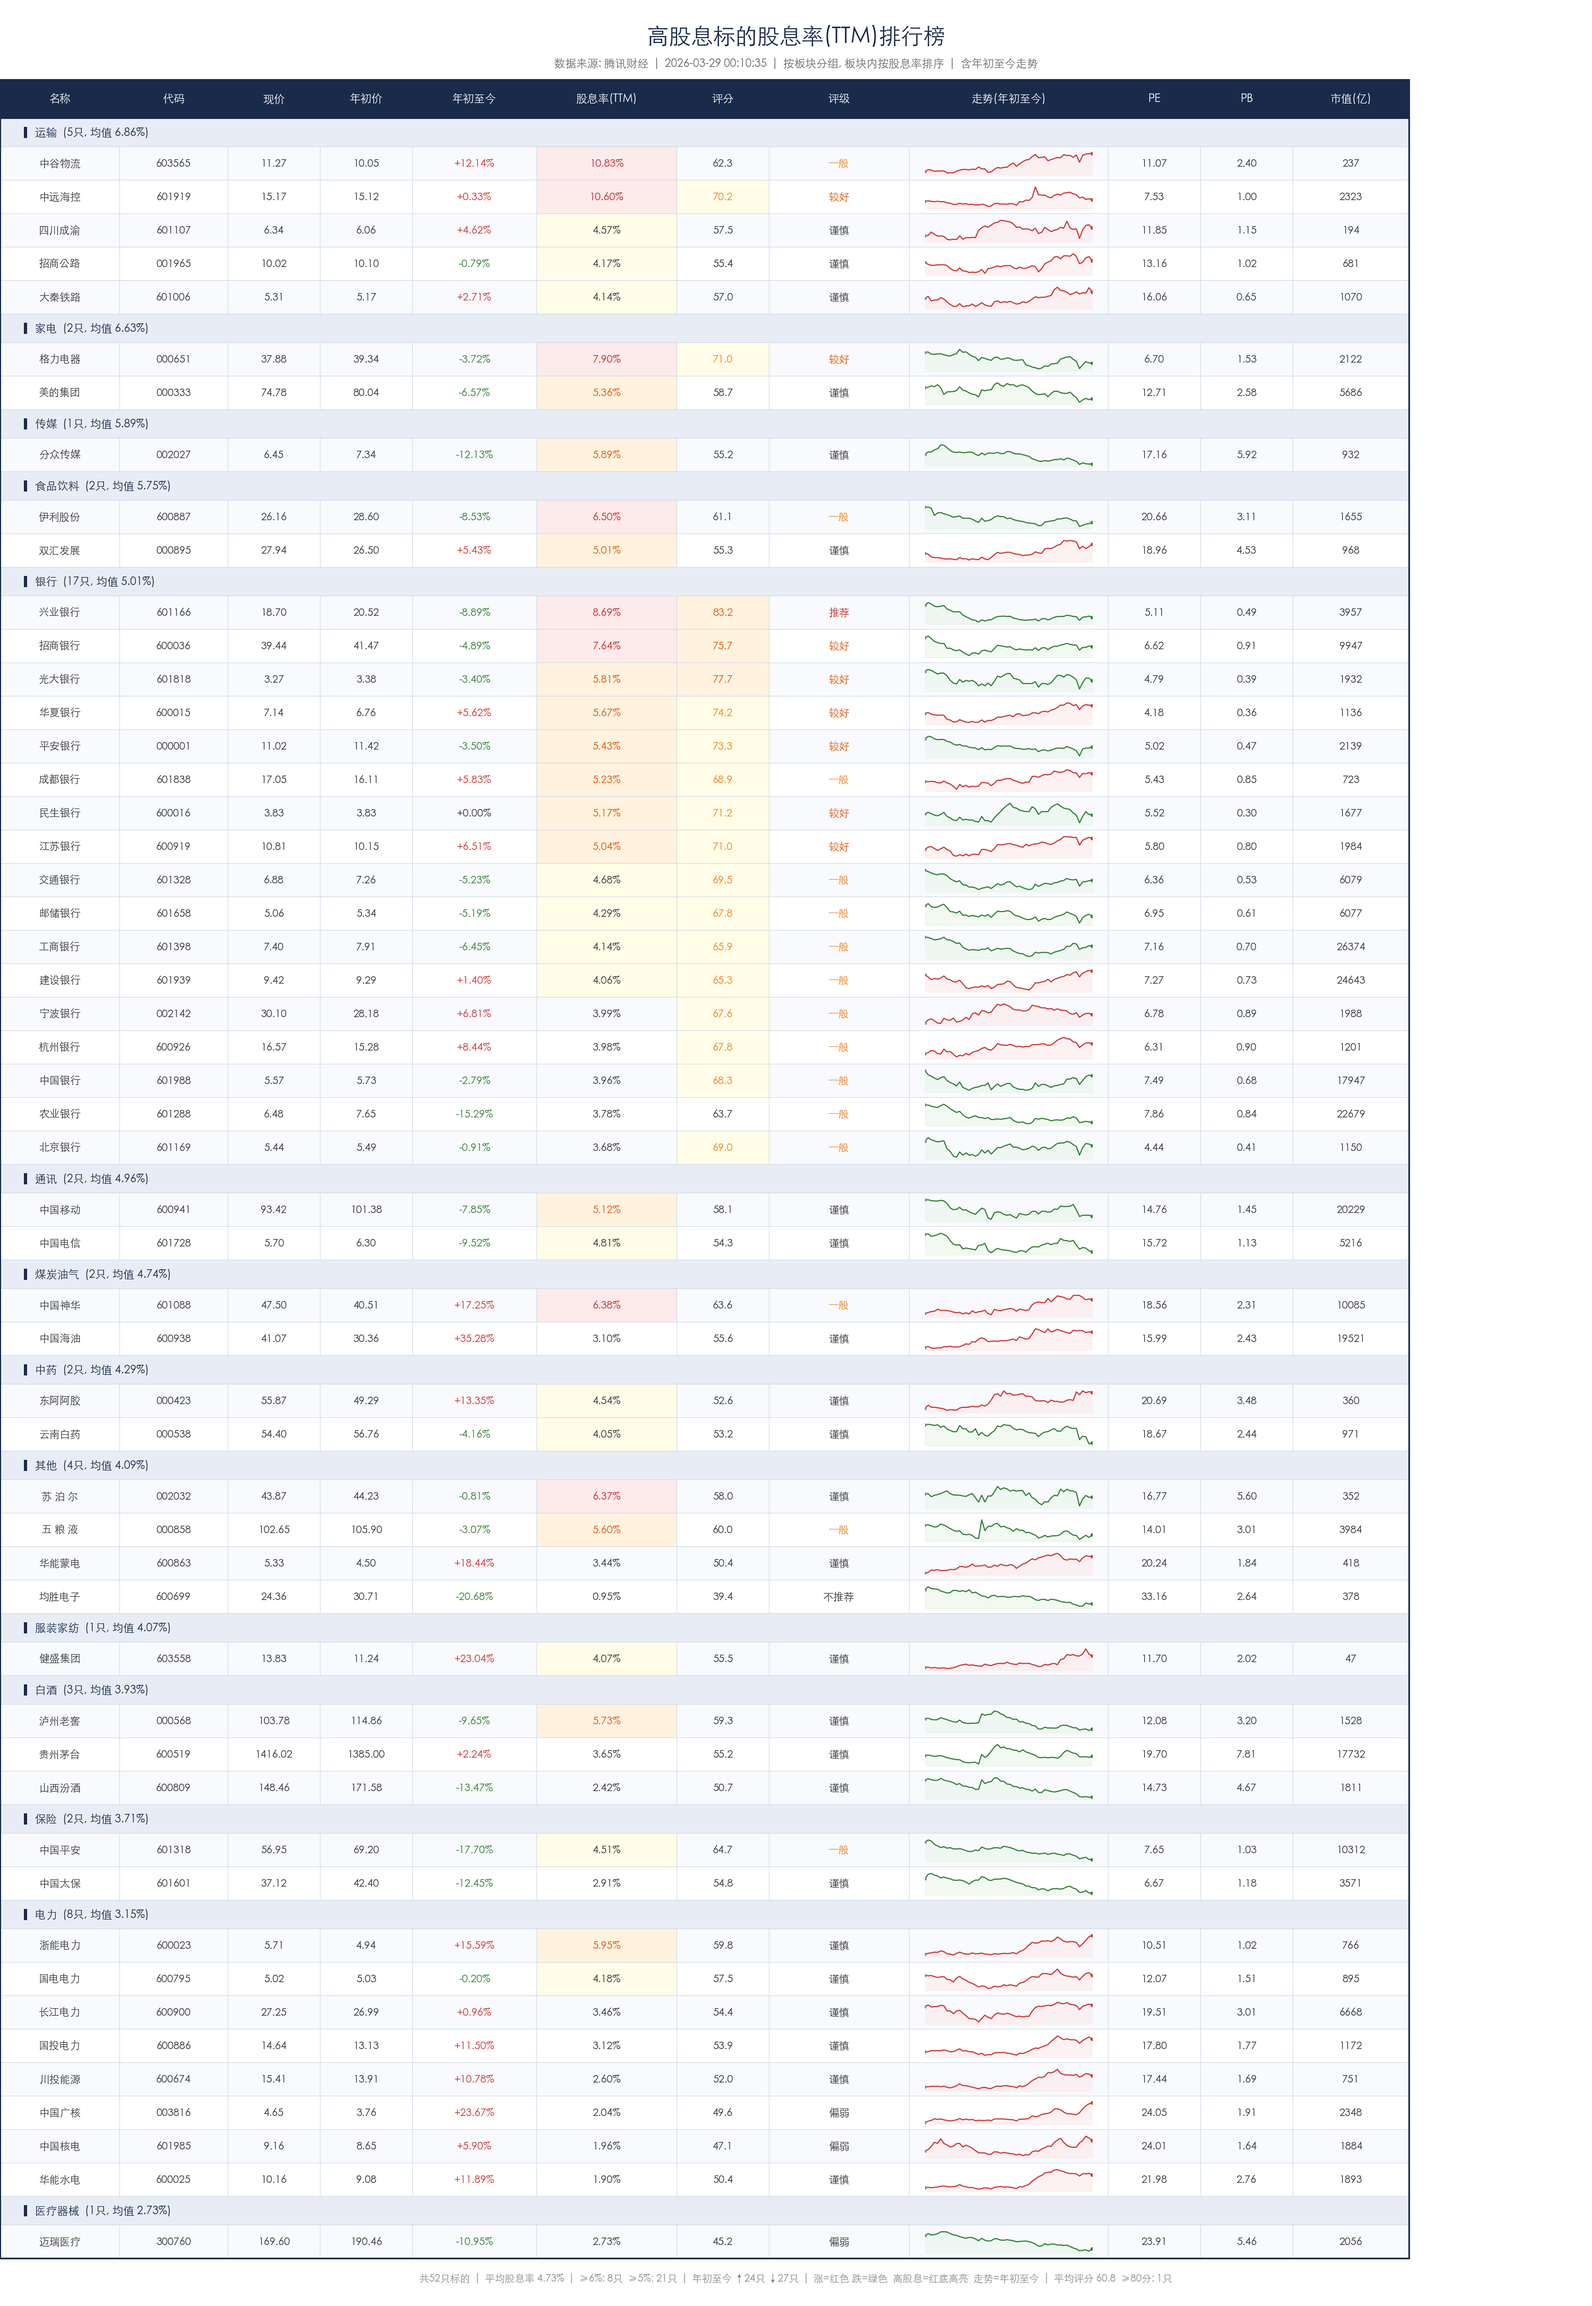
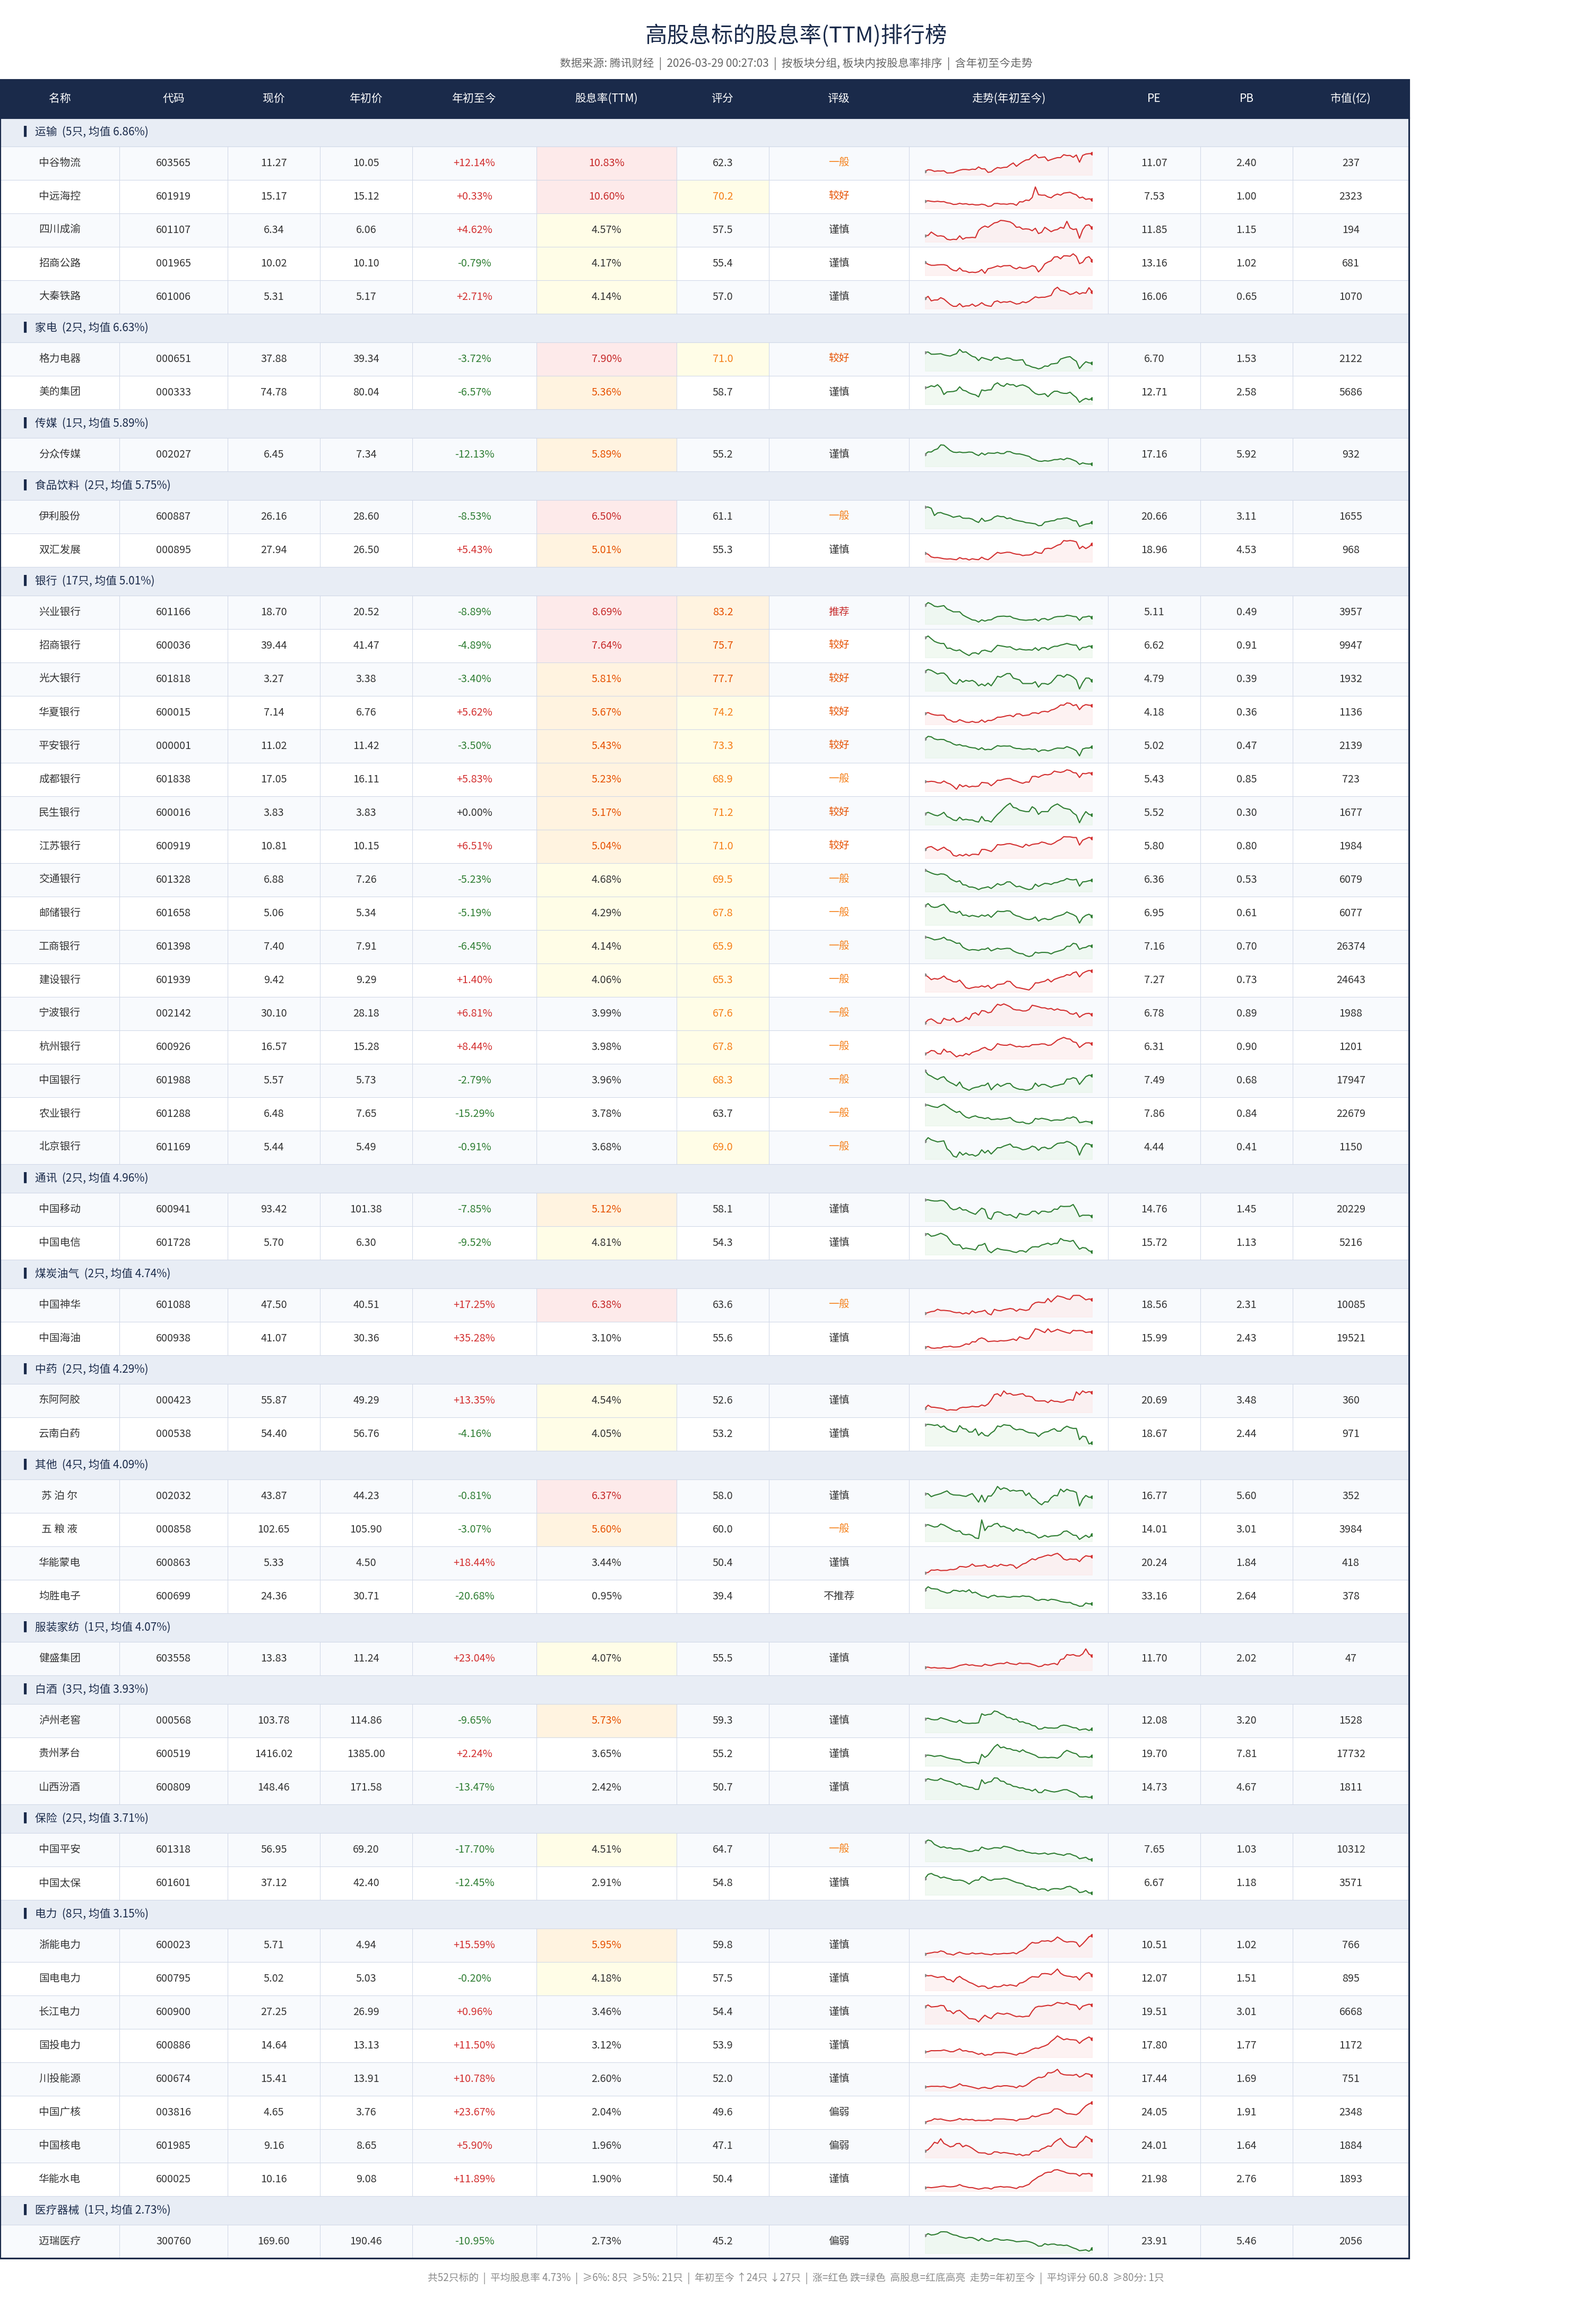
feat: 添加Linux中文字体支持，解决图表中文显示问题
- 新增setup_chinese_font()函数，自动检测并加载Linux系统字体
- 更新_find_cjk_font()函数，支持Linux和macOS双平台
- 优先尝试Noto Sans CJK SC和文泉驿微米黑字体
- 添加字体加载失败时的友好提示

diff --git a/send_wechat.py b/send_wechat.py
@@ -1,0 +1,194 @@
+#!/usr/bin/env python3
+# -*- coding: utf-8 -*-
+"""
+企业微信机器人消息发送工具
+用于发送股息分析结果和图片
+"""
+
+import requests
+import json
+import os
+import base64
+import hashlib
+from datetime import datetime
+
+# 企业微信机器人Webhook地址
+WEBHOOK_URL = "https://qyapi.weixin.qq.com/cgi-bin/webhook/send?key=a986619b-3ca0-4282-a354-ad181a22bb57"
+
+
+def send_text_message(content):
+    """发送文本消息"""
+    data = {
+        "msgtype": "text",
+        "text": {
+            "content": content
+        }
+    }
+    response = requests.post(WEBHOOK_URL, json=data, timeout=30)
+    return response.json()
+
+
+def send_markdown_message(content):
+    """发送Markdown消息"""
+    data = {
+        "msgtype": "markdown",
+        "markdown": {
+            "content": content
+        }
+    }
+    response = requests.post(WEBHOOK_URL, json=data, timeout=30)
+    return response.json()
+
+
+def send_image_message(image_path):
+    """发送图片消息"""
+    with open(image_path, 'rb') as f:
+        image_data = f.read()
+    
+    # 计算图片的base64编码和md5值
+    base64_data = base64.b64encode(image_data).decode('utf-8')
+    md5_value = hashlib.md5(image_data).hexdigest()
+    
+    data = {
+        "msgtype": "image",
+        "image": {
+            "base64": base64_data,
+            "md5": md5_value
+        }
+    }
+    response = requests.post(WEBHOOK_URL, json=data, timeout=30)
+    return response.json()
+
+
+def send_news_message(title, description, url, picurl=""):
+    """发送图文消息"""
+    data = {
+        "msgtype": "news",
+        "news": {
+            "articles": [
+                {
+                    "title": title,
+                    "description": description,
+                    "url": url,
+                    "picurl": picurl
+                }
+            ]
+        }
+    }
+    response = requests.post(WEBHOOK_URL, json=data, timeout=30)
+    return response.json()
+
+
+def generate_summary_from_csv(csv_path):
+    """从CSV文件生成汇总信息"""
+    if not os.path.exists(csv_path):
+        return "未找到数据文件"
+    
+    try:
+        import csv
+        rows = []
+        with open(csv_path, 'r', encoding='utf-8-sig') as f:
+            reader = csv.DictReader(f)
+            for row in reader:
+                rows.append(row)
+        
+        if not rows:
+            return "数据为空"
+        
+        # 计算统计数据
+        total = len(rows)
+        dividend_rates = [float(r['股息率%(TTM)']) for r in rows if r.get('股息率%(TTM)')]
+        avg_dv = sum(dividend_rates) / len(dividend_rates) if dividend_rates else 0
+        max_dv = max(dividend_rates) if dividend_rates else 0
+        min_dv = min(dividend_rates) if dividend_rates else 0
+        
+        # 统计各档位
+        ge_6 = sum(1 for d in dividend_rates if d >= 6)
+        ge_5 = sum(1 for d in dividend_rates if d >= 5)
+        ge_4 = sum(1 for d in dividend_rates if d >= 4)
+        
+        # 获取最高股息率股票
+        max_stock = max(rows, key=lambda r: float(r.get('股息率%(TTM)', 0) or 0))
+        
+        # 获取涨幅最大股票
+        ytd_changes = [(r, float(r.get('年初至今涨跌幅%', 0) or 0)) for r in rows if r.get('年初至今涨跌幅%')]
+        if ytd_changes:
+            best_ytd = max(ytd_changes, key=lambda x: x[1])
+            worst_ytd = min(ytd_changes, key=lambda x: x[1])
+        
+        # 生成年月日
+        now = datetime.now()
+        date_str = now.strftime("%Y年%m月%d日")
+        time_str = now.strftime("%H:%M")
+        
+        # 生成汇总文本
+        summary = f"📊 **高股息标的股息率日报** ({date_str} {time_str})\n\n"
+        summary += f"**统计摘要** (共 {total} 只标的):\n"
+        summary += f"> 📈 整体平均股息率: **{avg_dv:.2f}%**\n"
+        summary += f"> 🔥 最高股息率: **{max_stock['股票名称']}** ({max_dv:.2f}%)\n"
+        summary += f"> 📉 最低股息率: **{min_dv:.2f}%**\n\n"
+        
+        summary += f"**股息率分布**:\n"
+        summary += f"> ✅ ≥ 6%: **{ge_6}** 只\n"
+        summary += f"> ⭐ ≥ 5%: **{ge_5}** 只\n"
+        summary += f"> 📊 ≥ 4%: **{ge_4}** 只\n\n"
+        
+        if ytd_changes:
+            summary += f"**年初至今表现**:\n"
+            summary += f"> 🚀 涨幅最大: **{best_ytd[0]['股票名称']}** ({best_ytd[1]:+.2f}%)\n"
+            summary += f"> 📉 跌幅最大: **{worst_ytd[0]['股票名称']}** ({worst_ytd[1]:+.2f}%)\n\n"
+        
+        # 显示Top 5高股息率股票
+        top5 = sorted(rows, key=lambda r: float(r.get('股息率%(TTM)', 0) or 0), reverse=True)[:5]
+        summary += f"**🏆 Top 5 高股息率标的**:\n"
+        for i, r in enumerate(top5, 1):
+            name = r['股票名称']
+            code = r['股票代码']
+            dv = float(r.get('股息率%(TTM)', 0) or 0)
+            price = float(r.get('现价(元)', 0) or 0)
+            ytd = float(r.get('年初至今涨跌幅%', 0) or 0)
+            summary += f"> {i}. **{name}**({code}) | 股息率:{dv:.2f}% | 现价:{price:.2f}元 | 年涨跌:{ytd:+.2f}%\n"
+        
+        return summary
+    except Exception as e:
+        return f"生成汇总信息失败: {e}"
+
+
+def main():
+    """主函数：执行分析并发送结果"""
+    script_dir = os.path.dirname(os.path.abspath(__file__))
+    
+    # 1. 执行股息分析脚本
+    print("🚀 正在执行股息分析...")
+    import subprocess
+    result = subprocess.run(
+        ['python3', os.path.join(script_dir, 'bank_dividend.py')],
+        capture_output=True,
+        text=True,
+        cwd=script_dir
+    )
+    print(result.stdout)
+    if result.stderr:
+        print(f"警告: {result.stderr}")
+    
+    # 2. 生成并发送汇总信息
+    csv_path = os.path.join(script_dir, 'bank_dividend.csv')
+    summary = generate_summary_from_csv(csv_path)
+    
+    print("\n📤 正在发送汇总信息...")
+    send_markdown_message(summary)
+    
+    # 3. 发送图片
+    img_path = os.path.join(script_dir, 'bank_dividend.png')
+    if os.path.exists(img_path):
+        print("📸 正在发送分析图表...")
+        send_image_message(img_path)
+        print("✅ 发送完成!")
+    else:
+        print(f"⚠ 图片文件不存在: {img_path}")
+    
+    return summary
+
+
+if __name__ == "__main__":
+    main()

diff --git a/stock_dividend.py b/stock_dividend.py
@@ -18,6 +18,54 @@ import matplotlib.font_manager as fm
 from matplotlib.colors import LinearSegmentedColormap
 import numpy as np
 
+# ===================== 中文字体配置 =====================
+def setup_chinese_font():
+    """配置matplotlib中文字体支持(Linux环境)"""
+    # Linux系统常见中文字体路径
+    font_paths = [
+        '/usr/share/fonts/google-noto-cjk/NotoSansCJKsc-Regular.otf',  # Noto Sans CJK SC
+        '/usr/share/fonts/wqy/wqy-microhei.ttc',  # 文泉驿微米黑
+        '/usr/share/fonts/truetype/wqy/wqy-microhei.ttc',
+        '/usr/share/fonts/opentype/noto/NotoSansCJK-Regular.ttc',
+    ]
+    
+    font_found = False
+    for font_path in font_paths:
+        if os.path.exists(font_path):
+            try:
+                font_prop = fm.FontProperties(fname=font_path)
+                plt.rcParams['font.family'] = font_prop.get_name()
+                plt.rcParams['axes.unicode_minus'] = False  # 解决负号显示问题
+                print(f"✅ 已加载中文字体: {font_path}")
+                font_found = True
+                break
+            except Exception as e:
+                print(f"⚠ 加载字体失败 {font_path}: {e}")
+                continue
+    
+    if not font_found:
+        # 尝试使用系统字体管理器查找中文字体
+        try:
+            # 查找包含CJK或中文的字体
+            fonts = [f for f in fm.findSystemFonts() if 'cjk' in f.lower() or 'noto' in f.lower() or 'wqy' in f.lower()]
+            if fonts:
+                font_prop = fm.FontProperties(fname=fonts[0])
+                plt.rcParams['font.family'] = font_prop.get_name()
+                plt.rcParams['axes.unicode_minus'] = False
+                print(f"✅ 已自动加载中文字体: {fonts[0]}")
+                font_found = True
+        except Exception as e:
+            print(f"⚠ 自动查找字体失败: {e}")
+    
+    if not font_found:
+        print("⚠ 警告: 未找到中文字体，图表中的中文可能显示为方块")
+        print("   建议安装: sudo apt-get install fonts-noto-cjk 或 fonts-wqy-microhei")
+    
+    return font_found
+
+# 初始化中文字体
+setup_chinese_font()
+
 # ===================== 高股息标的完整列表 =====================
 STOCK_LIST = [
     # ---- 电力 ----
@@ -210,9 +258,17 @@ def parse_quotes(raw_text):
 
 
 def _find_cjk_font():
-    """查找系统中可用的中文字体"""
-    # macOS 常见中文字体路径
+    """查找系统中可用的中文字体 (支持macOS和Linux)"""
+    # 按优先级排序的字体候选列表
     candidates = [
+        # Linux 中文字体
+        "/usr/share/fonts/google-noto-cjk/NotoSansCJKsc-Regular.otf",
+        "/usr/share/fonts/google-noto-cjk/NotoSansCJKsc-Bold.otf",
+        "/usr/share/fonts/wqy/wqy-microhei.ttc",
+        "/usr/share/fonts/truetype/wqy/wqy-microhei.ttc",
+        "/usr/share/fonts/opentype/noto/NotoSansCJK-Regular.ttc",
+        "/usr/share/fonts/opentype/noto/NotoSansCJK-Bold.ttc",
+        # macOS 中文字体
         "/System/Library/Fonts/STHeiti Light.ttc",
         "/System/Library/Fonts/STHeiti Medium.ttc",
         "/System/Library/Fonts/Hiragino Sans GB.ttc",
@@ -225,15 +281,24 @@ def _find_cjk_font():
     ]
     for fp in candidates:
         if os.path.exists(fp):
-            return fm.FontProperties(fname=fp)
+            try:
+                font_prop = fm.FontProperties(fname=fp)
+                print(f"✅ 图表使用字体: {os.path.basename(fp)}")
+                return font_prop
+            except Exception:
+                continue
+    
     # 兜底：尝试系统已注册的中文字体名
-    for name in ["PingFang SC", "Heiti SC", "STHeiti", "SimHei", "Microsoft YaHei"]:
+    for name in ["Noto Sans CJK SC", "WenQuanYi Micro Hei", "PingFang SC", "Heiti SC", "STHeiti", "SimHei", "Microsoft YaHei"]:
         try:
             fp = fm.FontProperties(family=name)
             if fm.findfont(fp) != fm.findfont("DejaVu Sans"):
+                print(f"✅ 图表使用系统字体: {name}")
                 return fp
         except Exception:
             pass
+    
+    print("⚠ 警告: 未找到合适的中文字体，使用默认字体")
     return fm.FontProperties()
 
 
